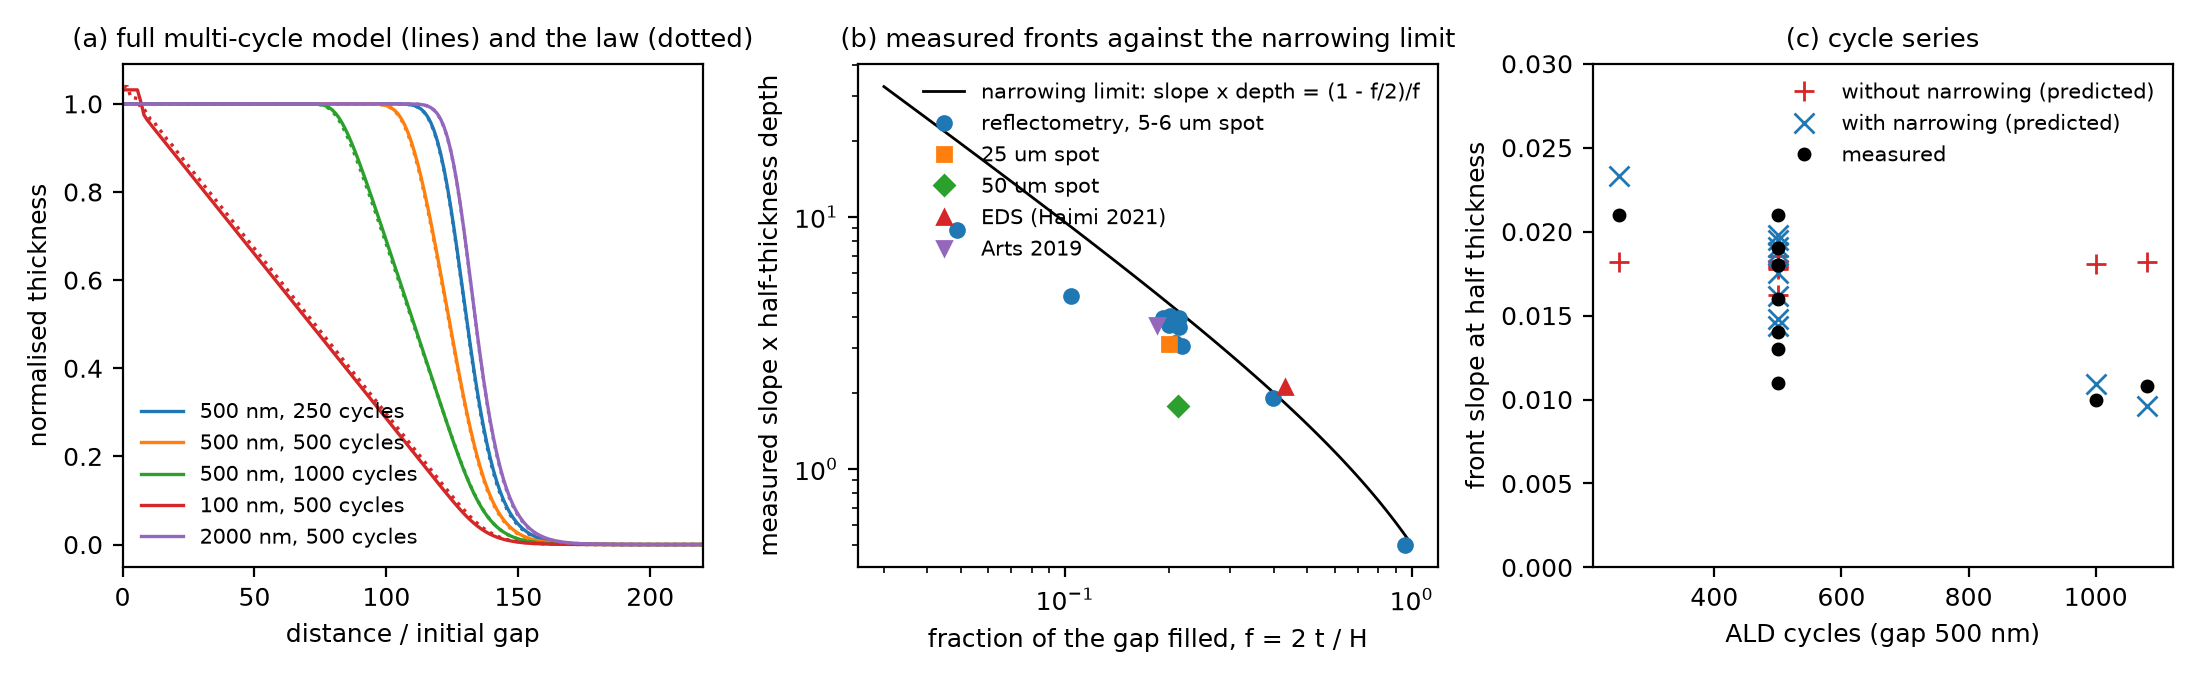
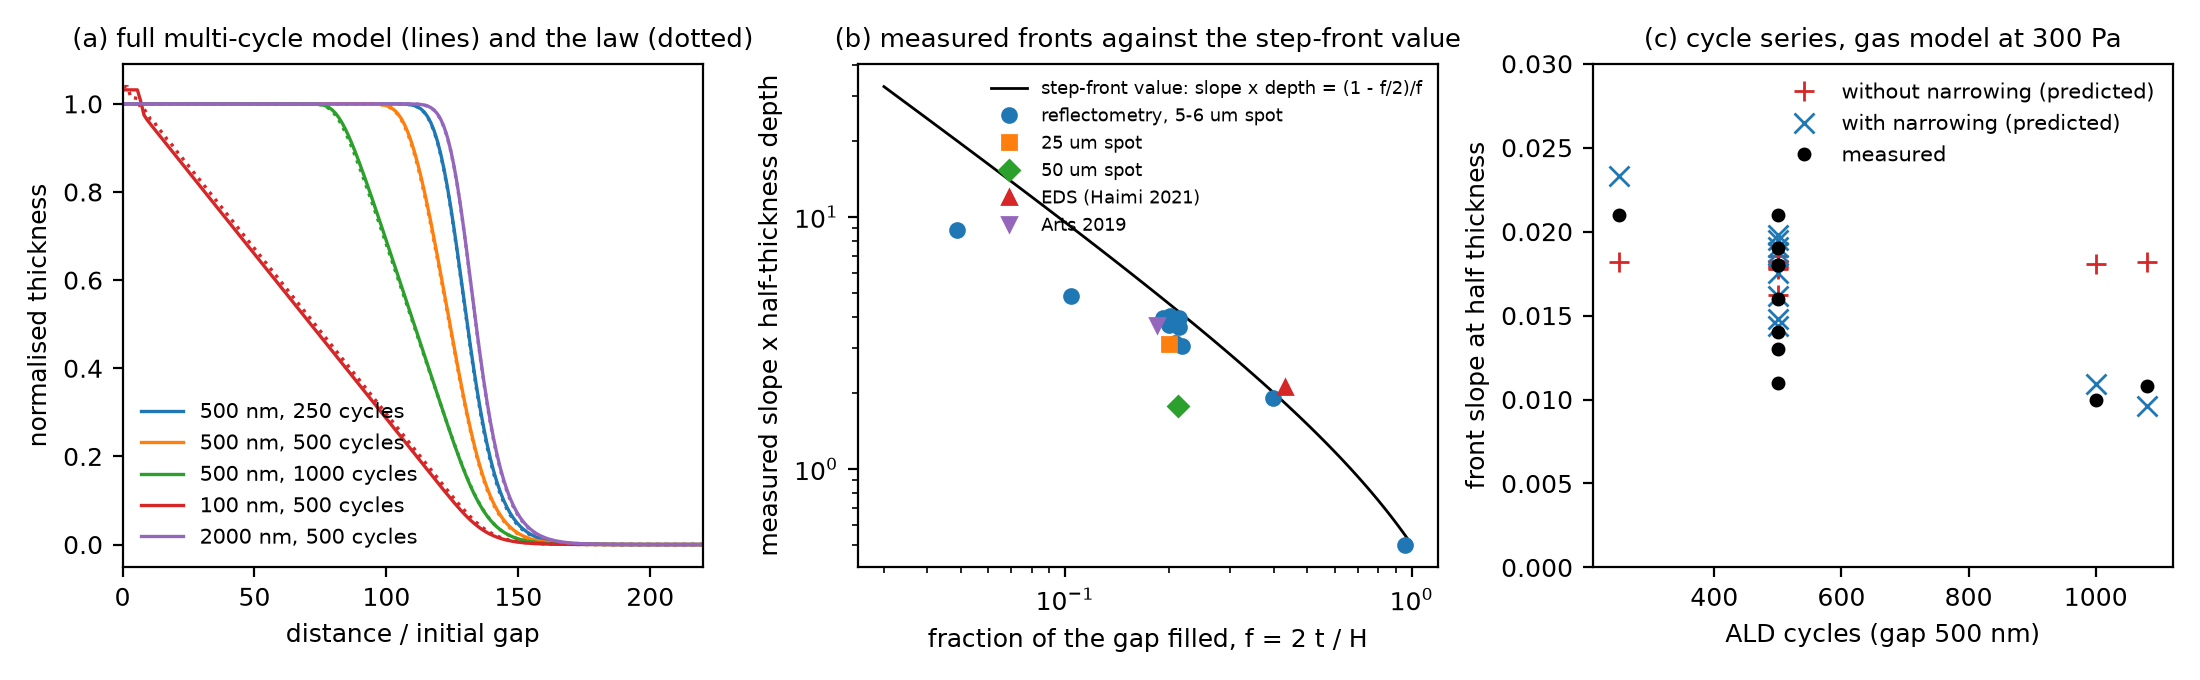
Paper figures 9, 10 and 12: legends clear of the data, readable axes and labels

Changed region(s): [[0.4018, 0.1235, 0.6491, 0.3706], [0.3709, 0.0309, 0.68, 0.0926], [0.7418, 0.0309, 0.9582, 0.0926]]

diff --git a/docs/paper/mechanism_figures.py b/docs/paper/mechanism_figures.py
@@ -29,17 +29,17 @@ for name, label, c, ls in VARIANTS:
     diag[name] = dict(label=label.replace("$", ""), exposure_Pa_s=round(e, 2), A=round(S0 / sl ** 2, 1), slope=round(float(sl), 4), tail_plus_60=round(float(np.interp(Z0 + 60, z, th)), 4), tail_plus_100=round(float(np.interp(Z0 + 100, z, th)), 4))
     curves[name] = (z, th)
 (FIG / "mechanism_transport.json").write_text(json.dumps(dict(s=S0, z50=Z0, variants=diag), indent=1))
-fig, ax = plt.subplots(1, 3, figsize=(11, 3.4))
+fig, ax = plt.subplots(1, 3, figsize=(11.5, 3.5), gridspec_kw=dict(width_ratios=[1, 1, 0.8]))
 for name, label, c, ls in VARIANTS:
     if name not in curves: continue
     z, th = curves[name]; j = 0 if name in ("walls90_pillars49", "spec20", "spec50", "retro20", "retro50", "cos2", "cos4", "cos8", "hyd") else None
     if name in ("walls90_pillars49", "hyd") or j == 0: ax[0].plot(z, th, color=c, ls=ls, lw=1.2, label=label)
     if name in ("walls90_pillars49", "hyd", "gas100", "gas300", "gas1000"): ax[1].plot(z, th, color=c, ls=ls, lw=1.2, label=label)
 for a, t in ((ax[0], "(a) wall-scattering law"), (ax[1], "(b) carrier-gas collisions")):
-    a.set_xlim(120, 360); a.set_ylim(0, 1.02); a.set_xlabel("distance / gap"); a.set_ylabel("coverage"); a.set_title(t); a.legend(frameon=False)
+    a.set_xlim(120, 460); a.set_ylim(0, 1.02); a.set_xlabel("distance / gap"); a.set_ylabel("coverage"); a.set_title(t); a.legend(frameon=False, loc="upper right", fontsize=6.5)
 names = [n for n, *_ in VARIANTS if n in diag]; y = np.arange(len(names))
-ax[2].barh(y, [diag[n]["tail_plus_60"] for n in names], color=[v[2] for v in VARIANTS if v[0] in diag]); ax[2].set_yticks(y); ax[2].set_yticklabels([diag[n]["label"] for n in names], fontsize=7); ax[2].invert_yaxis()
-ax[2].set_xlabel("coverage 60 gaps ahead of the front"); ax[2].set_title(f"(c) the tail, s = {S0}, front at {Z0:.0f} gaps")
+ax[2].barh(y, [diag[n]["tail_plus_60"] for n in names], color=[v[2] for v in VARIANTS if v[0] in diag]); ax[2].set_yticks(y); ax[2].set_yticklabels([v[1] for v in VARIANTS if v[0] in diag], fontsize=7); ax[2].invert_yaxis()
+ax[2].set_xlabel("coverage 60 gaps ahead of the front"); ax[2].set_title("(c) coverage ahead of the front")
 fig.tight_layout(); fig.savefig(OUT / "fig9_transport_candidates.png"); plt.close(fig)
 
 # ---- 2. the narrowing law against the full multi-cycle continuum model, and against the measured series ----
@@ -60,14 +60,14 @@ for (H, cyc), c in zip(((500e-9, 250), (500e-9, 500), (500e-9, 1000), (100e-9, 5
 pd.DataFrame(rows).to_csv(FIG / "mechanism_narrowing_check.csv", index=False)
 ax[0].set_xlim(0, 220); ax[0].set_xlabel("distance / initial gap"); ax[0].set_ylabel("normalised thickness"); ax[0].set_title("(a) full multi-cycle model (lines) and the law (dotted)"); ax[0].legend(frameon=False)
 H = mt.heldout(); H["fill"] = np.minimum(2 * H.film_nm / H.H_nm, 1.0); H["z1"] = H.z50 / (1 - H.fill / 2); H["nn"] = H.measured_slope * H.fill * H.z1
-ff = np.linspace(0.03, 1, 100); ax[1].plot(ff, 1 / (ff * (1 - 0)) * (1 - ff / 2), "k-", lw=1, label="narrowing limit: slope x depth = (1 - f/2)/f")
+ff = np.linspace(0.03, 1, 100); ax[1].plot(ff, 1 / (ff * (1 - 0)) * (1 - ff / 2), "k-", lw=1, label="step-front value: slope x depth = (1 - f/2)/f")
 for mag, mk, lab in ((50, "o", "reflectometry, 5-6 um spot"), (10, "s", "25 um spot"), (5, "D", "50 um spot"), (0, "^", "EDS (Haimi 2021)"), (100, "v", "Arts 2019")):
     g = H[H.magnification == mag]; ax[1].plot(g.fill, g.measured_slope * g.z50, mk, ms=5, label=lab)
-ax[1].set_xscale("log"); ax[1].set_yscale("log"); ax[1].set_xlabel("fraction of the gap filled, f = 2 t / H"); ax[1].set_ylabel("measured slope x half-thickness depth"); ax[1].set_title("(b) measured fronts against the narrowing limit"); ax[1].legend(frameon=False)
+ax[1].set_xscale("log"); ax[1].set_yscale("log"); ax[1].set_xlabel("fraction of the gap filled, f = 2 t / H"); ax[1].set_ylabel("measured slope x half-thickness depth"); ax[1].set_title("(b) measured fronts against the step-front value"); ax[1].legend(frameon=False, loc="upper right", fontsize=6.5)
 d = H[(H.H_nm == 500) & (H.magnification.isin([50, 0]))].sort_values("cycles"); cur = json.loads((FIG / "mechanism_slope_curves.json").read_text()); cmp_ = pd.read_csv(FIG / "mechanism_comparison.csv")
 for model, c in (("gas", "C3"), ("gas+narrowing+spot", "C0")):
     g = cmp_[(cmp_.model == model) & cmp_["sample"].isin(d["sample"])].sort_values("cycles"); ax[2].plot(g.cycles, g.predicted_slope, "x" if "narrowing" in model else "+", color=c, ms=7, label=("with" if "narrowing" in model else "without") + " narrowing (predicted)")
-ax[2].plot(d.cycles, d.measured_slope, "ko", ms=4, label="measured"); ax[2].set_xlabel("ALD cycles (gap 500 nm)"); ax[2].set_ylabel("front slope at half thickness"); ax[2].set_title("(c) cycle series"); ax[2].legend(frameon=False); ax[2].set_ylim(0, 0.03)
+ax[2].plot(d.cycles, d.measured_slope, "ko", ms=4, label="measured"); ax[2].set_xlabel("ALD cycles (gap 500 nm)"); ax[2].set_ylabel("front slope at half thickness"); ax[2].set_title("(c) cycle series, gas model at 300 Pa"); ax[2].legend(frameon=False); ax[2].set_ylim(0, 0.03)
 fig.tight_layout(); fig.savefig(OUT / "fig10_narrowing_law.png"); plt.close(fig)
 
 # ---- 3. held-out slopes ----
@@ -86,13 +86,13 @@ for smp, lab, c in (("Yim9", "2000 nm, 500 cycles (5 % filled)", "C4"), ("Yim10"
     if smp not in per: continue
     ax[0].plot(per[smp]["s"], per[smp]["slope"], "-", color=c, lw=1.3, label=lab); m = Hh.loc[smp, "measured_slope"]; ax[0].axhspan(m * np.exp(-SIG), m * np.exp(SIG), color=c, alpha=0.10, lw=0)
 ss = np.geomspace(0.003, 0.06, 50); ax[0].plot(ss, np.sqrt(ss / 13.9), "k:", lw=1, label="slope method: $\\sqrt{s/13.9}$")
-ax[0].set_xscale("log"); ax[0].set_yscale("log"); ax[0].set_xlabel("sticking coefficient s"); ax[0].set_ylabel("front slope (complete model)"); ax[0].set_title("(a) what the slope still says about s"); ax[0].legend(frameon=False, fontsize=6.5)
-ax[0].set_xticks([0.003, 0.01, 0.03, 0.06]); ax[0].set_xticklabels(["0.003", "0.01", "0.03", "0.06"]); ax[0].minorticks_off()
+ax[0].set_xscale("log"); ax[0].set_yscale("log"); ax[0].set_xlabel("sticking coefficient s"); ax[0].set_ylabel("front slope (complete gas model, 300 Pa)"); ax[0].set_title("(a) what the slope still says about s"); ax[0].legend(frameon=False, fontsize=6.5)
+ax[0].set_xticks([0.003, 0.01, 0.03, 0.06]); ax[0].set_xticklabels(["0.003", "0.01", "0.03", "0.06"]); ax[0].set_yticks([0.005, 0.01, 0.02, 0.05]); ax[0].set_yticklabels(["0.005", "0.01", "0.02", "0.05"]); ax[0].minorticks_off()
 for m, c, mk in zip(mt.COMPLETE, ("k", "C0", "C3"), ("o", "s", "^")):
-    idf = pd.DataFrame(summ["ceiling"][m]).T; ax[1].plot(idf.fill.astype(float), idf.measured_over_ceiling.astype(float), mk, ms=5, color=c, mfc="none", label=m.split("+")[0])
+    idf = pd.DataFrame(summ["ceiling"][m]).T; ax[1].plot(idf.fill.astype(float), idf.measured_over_ceiling.astype(float), mk, ms=5, color=c, mfc="none", label={"ballistic": "gas-free", "gas": "gas, 300 Pa"}.get(m.split("+")[0], m.split("+")[0]))
 idf = pd.DataFrame(summ["ceiling"]["gas+narrowing+spot"]).T
 for smp, r in idf.iterrows():
     if smp in ("Yim9", "Yim10", "Yim11", "Yim7", "Arts", "HaimiA", "Yim6"): ax[1].annotate(smp.replace("Yim", "#"), (float(r.fill), float(r.measured_over_ceiling)), textcoords="offset points", xytext=(4, 3), fontsize=7)
-ax[1].axhline(1.0, color="k", ls=":", lw=1); ax[1].set_xscale("log"); ax[1].set_xlabel("fraction of the gap filled"); ax[1].set_ylabel("measured slope / model slope at the largest simulated s"); ax[1].set_title("(b) how close the measured slopes are to the ceiling"); ax[1].legend(frameon=False)
+ax[1].axhline(1.0, color="k", ls=":", lw=1); ax[1].set_xscale("log"); ax[1].set_xlabel("fraction of the gap filled"); ax[1].set_ylabel("measured slope / largest model slope"); ax[1].set_title("(b) measured slope over the model slope at the largest s"); ax[1].legend(frameon=False)
 fig.tight_layout(); fig.savefig(OUT / "fig12_identifiability.png"); plt.close(fig)
 print(json.dumps(diag, indent=1)); print(pd.DataFrame(rows).round(4).to_string())
